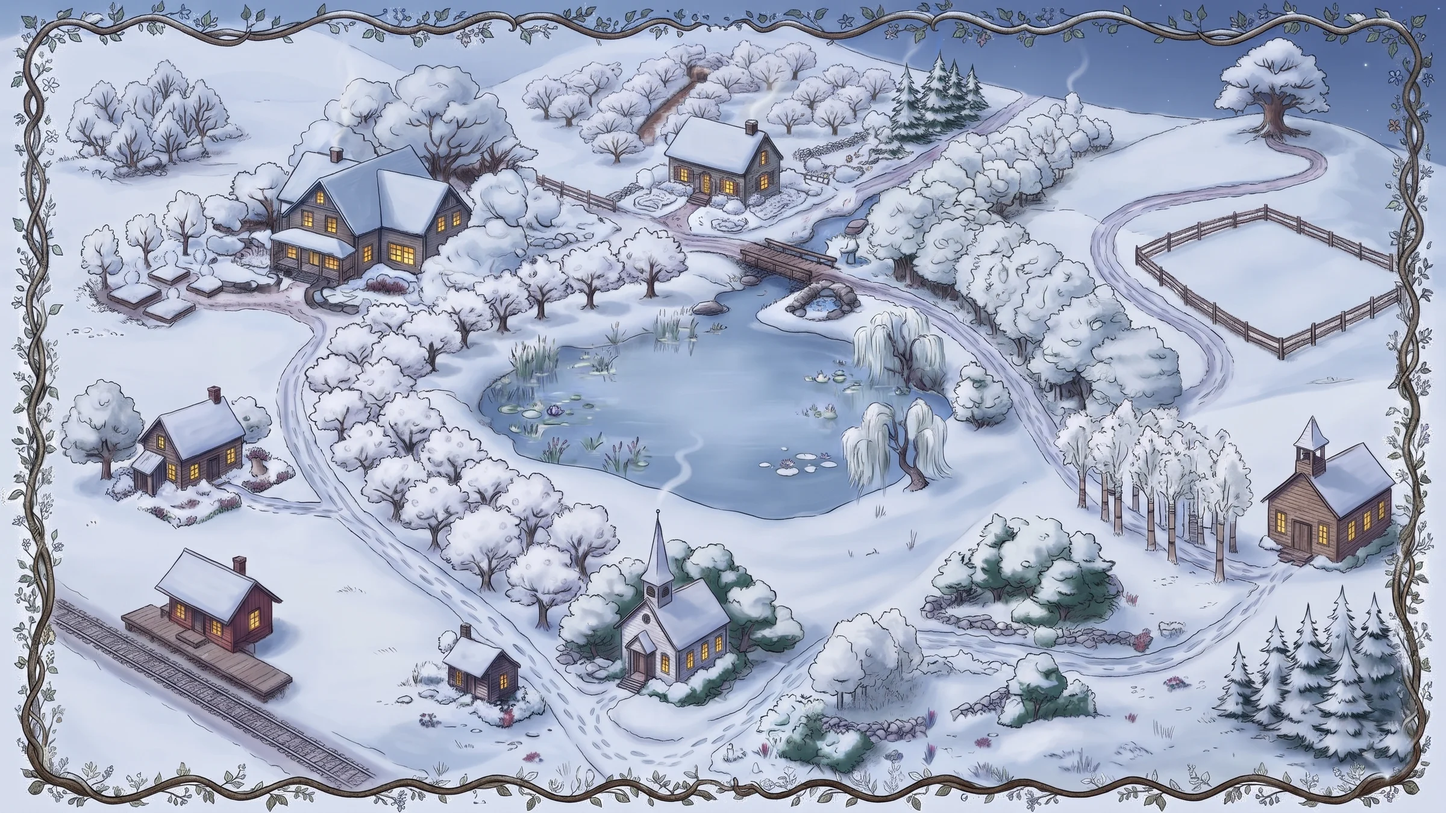
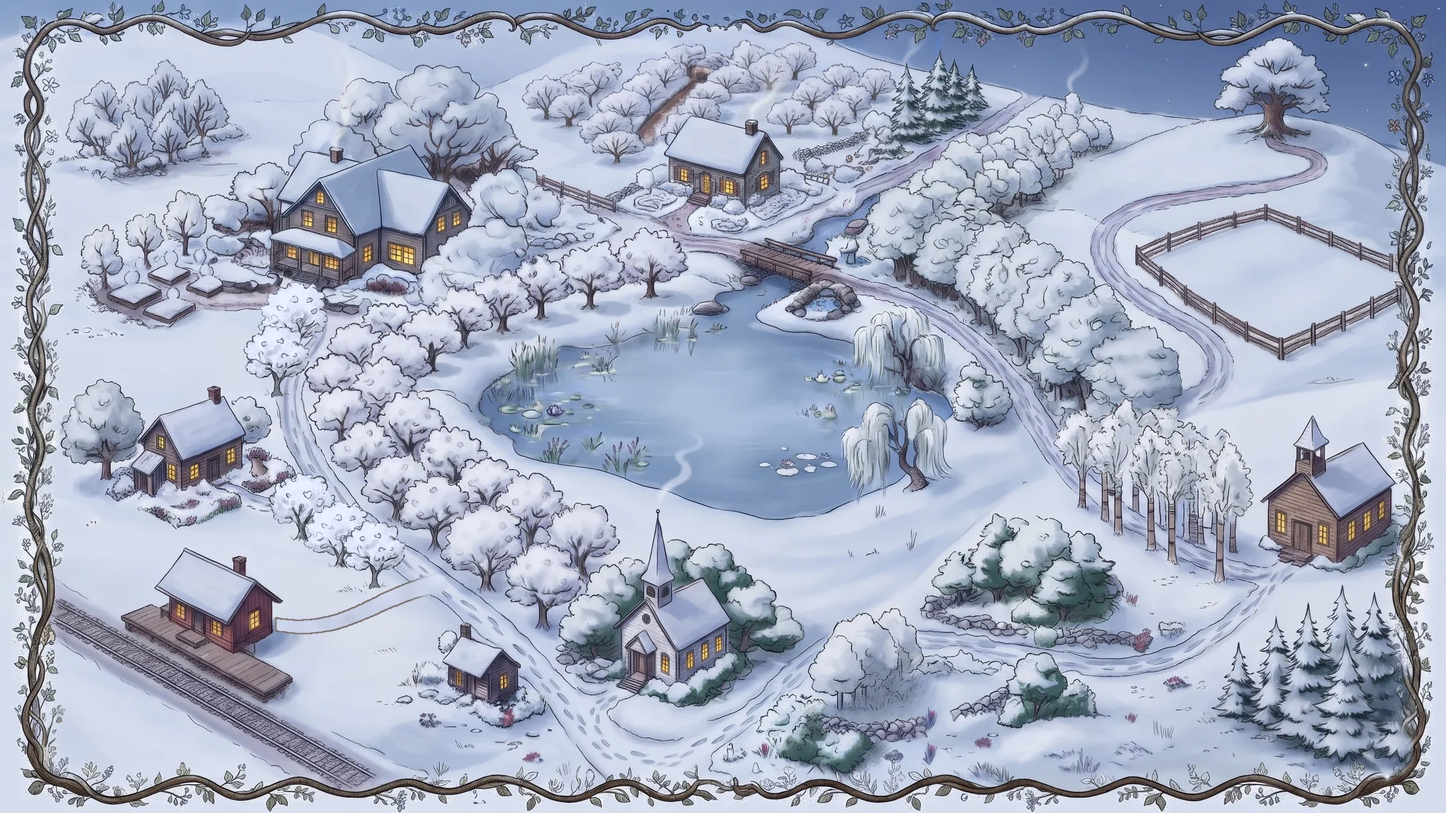
그림 앞뒤 맞추기: 계절에 맞는 초록 지붕 집 배경(겨울 새로), 7장 여름 부엌·10장 배리 씨네 배경 고침, 10장 걷는 앤 옷을 서 있는 그림과 같게, 지도 꽃길 양쪽 나무와 역 앞 길(4계절)

Changed region(s): [[0.1875, 0.5911, 0.3125, 0.7467], [0.1562, 0.3422, 0.25, 0.4978], [0.1875, 0.7467, 0.25, 0.7778]]

diff --git a/js/ch7.js b/js/ch7.js
@@ -26,19 +26,19 @@ CH[7] = {
       {t:"사모님을 무지개 스카프를 두른 요정이라고 상상한다.", type:"imag", eff:{hid:"dryadScarf"}, then:[["inner", "dreamy", "allan", "사모님은 숲에서 온 요정일지도 몰라.\n무지개 스카프를 두른 다정한 요정!", {dream:true}]]},
       {t:"다른 친구들이 먼저 묻게 차례를 기다린다.", type:"bal", eff:{h:{allan:2}}, then:[["allan", "happy", "allan", "\"앤, 친구들을 배려하는구나. 고맙다.\""]]}
     ]},
-    ["marilla", "happy", "marilla_warm", "\"다음 주에 목사님 내외분을 차 손님으로 모시기로 했다.\n앤, 케이크는 네가 구워 보겠니?\"", {bg:"ch6"}],
+    ["marilla", "happy", "marilla_warm", "\"다음 주에 목사님 내외분을 차 손님으로 모시기로 했다.\n앤, 케이크는 네가 구워 보겠니?\"", {bg:"ch7"}],
     ["anne", "happy", "marilla_warm", "\"제가요? 와, 정말 최고로 맛있는 레이어 케이크를 구울게요!\""]
   ]},
-  {at:"home", label:"앨런 사모님께 드릴 케이크 굽기", bg:"ch6", nodes:[
+  {at:"home", label:"앨런 사모님께 드릴 케이크 굽기", bg:"ch7", nodes:[
     ["inner", "sad", null, "그런데 하필 그날 나는 코감기에 걸렸어.\n코가 꽉 막혀서 아무 냄새도 안 났어."],
-    {mini:{kind:"recipe", id:"cake", title:"케이크 만들기", bg:"ch6", how:"요리책에 적힌 순서대로 선반의 재료를 눌러 그릇에 넣어요. 코가 막혀 냄새를 못 맡으니 이름표를 잘 읽어야 해요. 하얀 통은 생김새가 똑같아요!",
+    {mini:{kind:"recipe", id:"cake", title:"케이크 만들기", bg:"ch7", how:"요리책에 적힌 순서대로 선반의 재료를 눌러 그릇에 넣어요. 코가 막혀 냄새를 못 맡으니 이름표를 잘 읽어야 해요. 하얀 통은 생김새가 똑같아요!",
       say:"요리책 순서대로 재료를 눌러요", book:"레이어 케이크 만드는 법",
       steps:[{t:"밀가루"}, {t:"설탕"}, {t:"버터"}, {t:"달걀", n:3}, {t:"우유"}, {t:"바닐라", ask:1}],
       decoys:["소금", "비누 가루", "베이킹소다", "식초", "후추"],
       ask:{q:"코가 막혀 냄새를 못 맡아요. 이 바닐라 병, 그냥 넣어도 될까요?", ok:"마릴라 아주머니께 여쭤본다", no:"이름표만 믿고 넣는다", yes:"좋아요! 모를 땐 여쭤보기.", nope:"원작 속 앤도 이름표만 믿었대요…"},
       res:{1:"케이크가… 어딘가 이상한 냄새가 나요.", 2:"거의 완벽했어요. 그런데 바닐라는요…?", 3:"완벽해요! 하지만 원작 속 앤은 이날 병을 헷갈렸대요."}}},
     {eff:{get:"bottle"}},
-    ["allan", "happy", "allan", "차 모임 날, 앨런 사모님이 케이크를 한 입 드셨어.\n그런데 표정이 살짝… 이상하셨어.", {bg:"ch6"}],
+    ["allan", "happy", "allan", "차 모임 날, 앨런 사모님이 케이크를 한 입 드셨어.\n그런데 표정이 살짝… 이상하셨어.", {bg:"ch7"}],
     ["marilla", "surprised", "marilla_strict", "\"앤! 케이크에 뭘 넣은 거냐? 이건… 진통제잖아!\n바닐라 병에 진통제를 옮겨 담아 뒀었는데!\""],
     {q:"케이크에 진통제가 들어갔대요! 앤은 어떻게 할까요?", opts:[
       {t:"다락방으로 뛰어 올라가 침대에 엎드려 운다.", type:"canon", then:[["inner", "sad", null, "나는 다락방 침대에 엎드려 엉엉 울었어.\n앨런 사모님께 진통제 케이크를 드리다니!", {bg:"ch8_attic"}]]},

diff --git a/js/engine.js b/js/engine.js
@@ -11,7 +11,7 @@ const P = {
   station:{name:"브라이트 리버 역", x:255, y:700, bg:"ch1", bgW:"ch6_snow", from:1, say:["기차역이야. 여기서 매슈 아저씨를 처음 만났지."]},
   avenue:{name:"꽃이 핀 가로수길", x:395, y:560, bg:"ch1_avenue", bgW:"ch6_snow", from:1, say:["'{avenue}'. 언제 와도 마음이 하얘져.", "꽃잎 터널 아래를 걸으면 공주가 된 기분이야."]},
   pond:{name:"배리 씨네 연못", x:515, y:430, bg:"ch1_pond", bgW:"ch6_snow", from:1, say:["'{pond}'. 물결이 오늘도 반짝반짝해."]},
-  home:{name:"초록 지붕 집", x:405, y:300, bg:"ch1_home", from:1, say:["초록 지붕 집. 이제 진짜 내 집이야.", "다락방 창문에서 벚나무가 손을 흔들어."]},
+  home:{name:"초록 지붕 집", x:405, y:300, bg:"ch1_home", bgS:{summer:"ch8_porch", autumn:"ch10_home", winter:"home_winter"}, from:1, say:["초록 지붕 집. 이제 진짜 내 집이야.", "다락방 창문에서 벚나무가 손을 흔들어."]},
   lynde:{name:"린드 부인 집", x:205, y:520, bg:"ch2_lynde", from:2, say:["린드 부인은 오늘도 창가에서 길을 지켜보고 계실 거야.", "린드 부인의 정원은 늘 반듯반듯해."]},
   lane:{name:"연인의 오솔길", x:1090, y:430, bg:"ch2_lane", bgW:"ch6_snow", from:2, say:["'{lane}'. 나무들이 소곤소곤 이야기하는 길이야."]},
   barry:{name:"배리 씨네 집", x:800, y:240, bg:"ch3", from:3, say:["다이애나네 집이야. 창문에 불이 켜져 있으면 괜히 기뻐져."]},
@@ -172,11 +172,11 @@ function go(k){
   const pts = S.at && P[S.at] && S.at !== k ? route(S.at, k) : null;
   const arrive = () => { S.at = k; saveS(); drawMap();
   setTimeout(() => { busy = false;
-    if(q && q.at === k) playScene(q.nodes, q.bg || p.bg, q.stage, true);
+    if(q && q.at === k) playScene(q.nodes, q.bg || placeBg(k), q.stage, true);
     else { const own = typeof SAY !== "undefined" && SAY[S.ch] && SAY[S.ch][k];
       const lines = p.say || ["여기도 좋은 곳이야."];
       const first = own ? own : [{w:"inner", f:"happy", t:lines[Math.random() * lines.length | 0]}];
-      playScene([...first, ...(q ? [{w:"inner", f:"dreamy", t:`이제 할 일을 하러 가 볼까?\n「${fill(q.label)}」`}] : [])], (C().season === "winter" && P[k].bgW) || p.bg, null, false); }
+      playScene([...first, ...(q ? [{w:"inner", f:"dreamy", t:`이제 할 일을 하러 가 볼까?\n「${fill(q.label)}」`}] : [])], placeBg(k), null, false); }
   }, 350); };
   if(pts) walk(pts, arrive); else arrive();
 }
@@ -254,6 +254,8 @@ function endScene(){
 }
 
 /* ---------- 미니게임 연결 ---------- */
+/* 장소 배경: 그 장의 계절 배경(bgS) > 겨울 배경(bgW) > 기본 */
+const placeBg = k => { const p = P[k], se = C() && C().season; return (p.bgS && p.bgS[se]) || (se === "winter" && p.bgW) || p.bg; };
 function runMini(n){
   const m = n.mini; show("mini"); $("hudT").textContent = "미니게임 · " + m.title;
   const mini = $("mini"); mini.style.backgroundImage = m.bg === false ? "none" : `url(${IMG(m.bg || curBg)})`; mini.classList.toggle("roll", !!m.roll);

diff --git a/js/ch10.js b/js/ch10.js
@@ -63,7 +63,7 @@ CH[10] = {
     ["inner", "happy", "lynde", "린드 아주머니께 인사드리고, 다른 고마운 분들도 떠올려 봤어.", {when:() => (S.hearts.lynde || 0) >= 2}],
     ["diana", "happy", "diana", "\"앤, 네가 에이번리에 남는다니 세상에서 제일 기뻐!\n우리 다시 날마다 만날 수 있어!\"", {bg:"ch3", when:() => (S.hearts.diana || 0) >= 3}],
     ["allan", "happy", "allan", "\"앤, 네가 고른 길도 분명 아름다운 길일 거야.\"", {bg:"ch7_garden", when:() => (S.met.allan && (S.hearts.allan || 0) >= 2)}],
-    ["barry", "happy", "barry", "\"미니 메이가 앤 언니 언제 오냐고 날마다 묻는단다.\"", {bg:"ch6_barry", when:() => (S.hearts.barry || 0) >= 3}],
+    ["barry", "happy", "barry", "\"미니 메이가 앤 언니 언제 오냐고 날마다 묻는단다.\"", {bg:"ch3", when:() => (S.hearts.barry || 0) >= 3}],
     ["inner", "happy", null, "에이번리에는 고마운 사람들이 참 많아.\n처음 기차역에 혼자 앉아 있던 날엔 상상도 못 했어."]
   ]},
   {at:"hill", label:"길모퉁이 언덕에 올라가기", nodes:[
